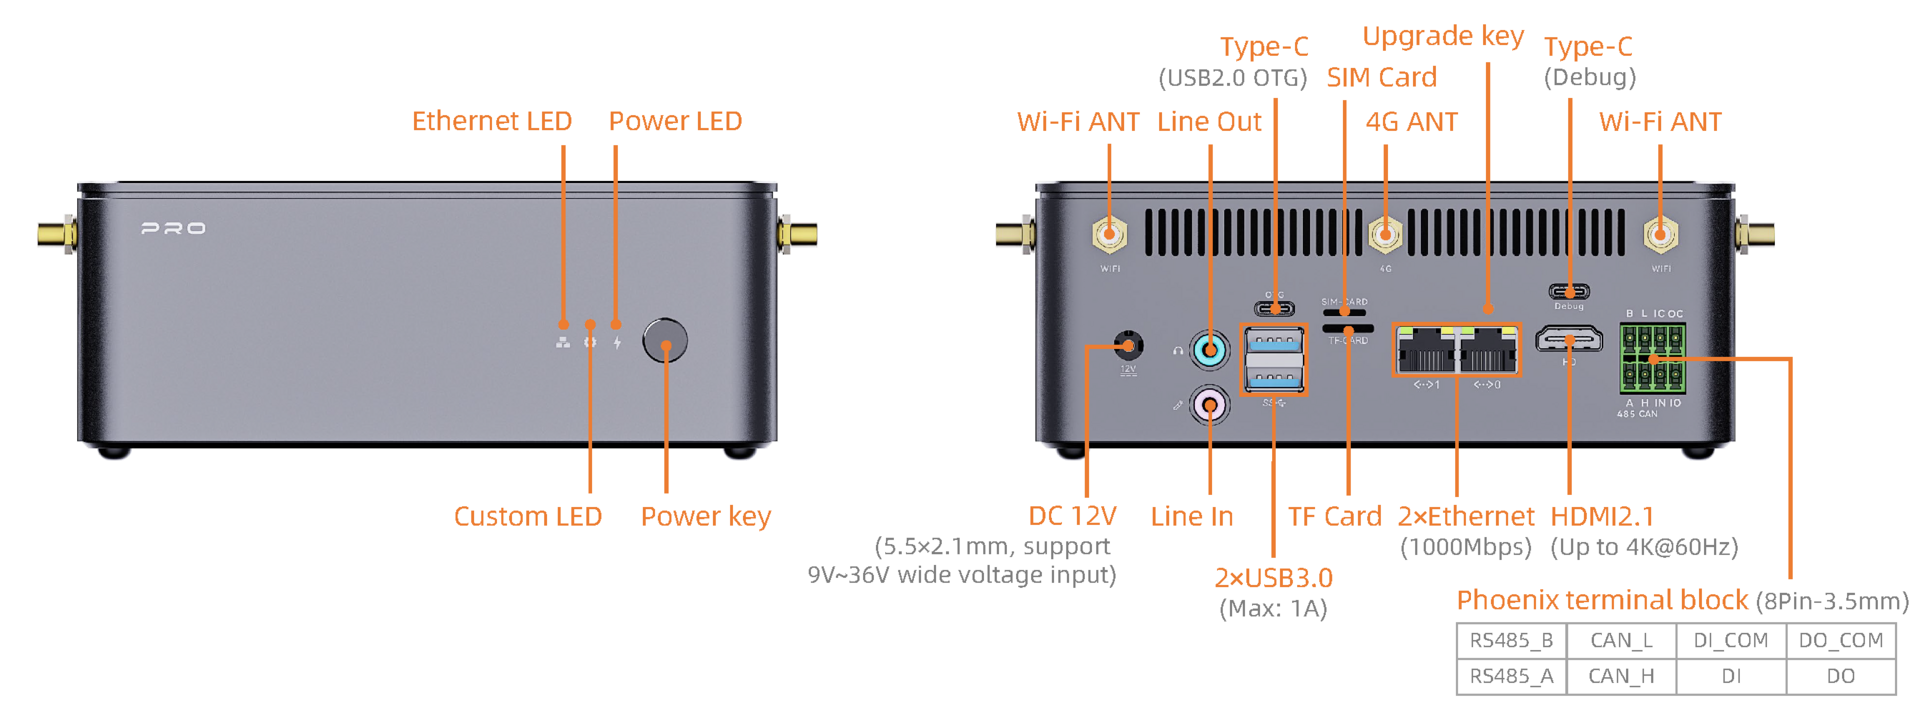
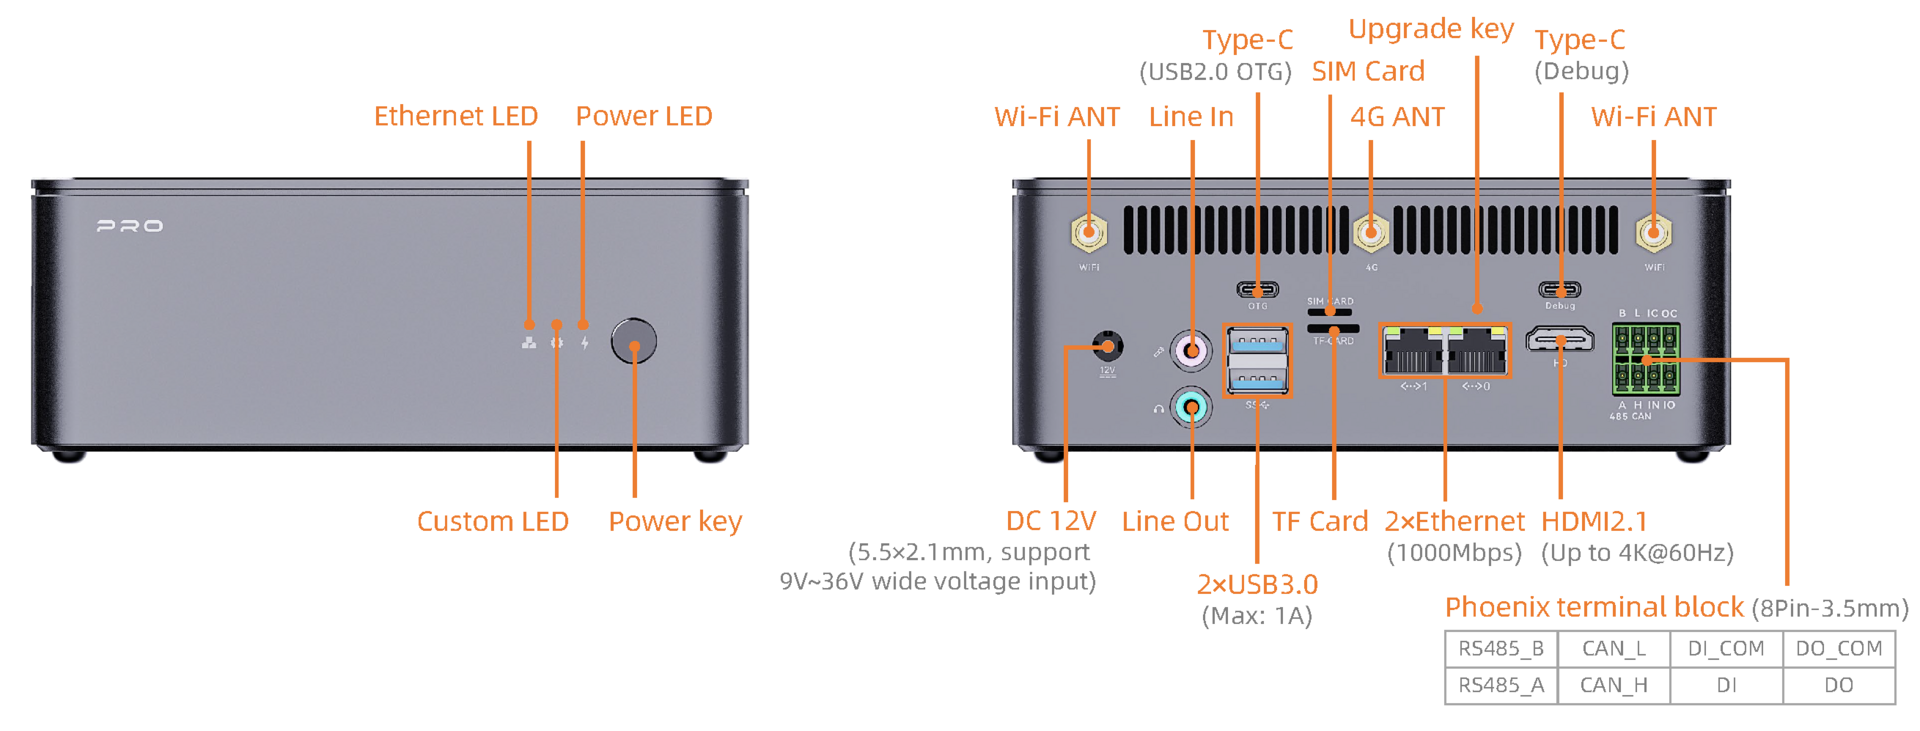
firefly products 68e78a1f7af6de2a8ff2ef659295a0e9297b4d36

diff --git a/en/Computers/AIBOX-PRO/linux6.1_compile_rockchip.md b/en/Computers/AIBOX-PRO/linux6.1_compile_rockchip.md
@@ -20,72 +20,13 @@ Depand on **Main Module**, Please contact sales@t-firefly.com to get **RK3588 Ke
 ## Compile Debian Firmware
 <font color=red> Download SDK First. </font>
 
-### rootfs
-* Download root filesystem: [Debian Rootfs(64-bit) Kernel6.1](https://en.t-firefly.com/doc/download/301.html), please use the filesystem from the `kernel-6.1` directory.
-* Extract rootfs and link it
-
-#### RK3588
-```
-# Extract
-7z x debian12_xxxx_rootfs_xxxx.7z
-
-# Move the extracted rootfs image to SDK and create a symbolic link
-mkdir ./SDK/prebuilt_rootfs/
-mv debian12_xxxx_rootfs_xxxx.img ./SDK/prebuilt_rootfs/
-cd ./SDK/prebuilt_rootfs/
-ln -sf debian12_xxxx_rtoofs_xxxx.img rk3588_debian_rootfs.img
-cd ..
-```
-
-### Configure
-#### Core-3588JD4
-
-```
-./build.sh firefly_rk3588_aibox-pro-g2-3588jd4_rk182x_debian_defconfig
-```
-
-### Build
-```
-./build.sh all
-```
-
-The generated firmware is in the `output/update/` directory, e.g., `AIBOX-PRO-G2-3588JD4_Debian.XXX.img`
+!INCLUDE "./linux6.1_compile_debian_aibox-pro-3588.mdpp"
 
 ## Compile Ubuntu Firmware
 <font color=red> Download SDK First. </font>
 
-### rootfs
-* Download root filesystem: [Ubuntu Rootfs(64-bit) Kernel6.1](https://en.t-firefly.com/doc/download/301.html), please use the filesystem from the `kernel-6.1` directory.
-* Extract rootfs and link it
-
-#### RK3588
-```
-# Extract
-7z x Ubuntu22.04-xxxx.7z
-
-mkdir ./SDK/prebuilt_rootfs/
-mv Ubuntu22.04-xxxx.img ./SDK/prebuilt_rootfs/
-cd ./SDK/prebuilt_rootfs/
-ln -sf Ubuntu22.04-xxxx.img rk3588_ubuntu_rootfs.img
-cd ..
-```
-
-### Configure
-### RK3588
-
-```
-./build.sh firefly_rk3588_aibox-pro-g2-3588jd4_rk182x_ubuntu_defconfig
-```
-
-### Build
-```
-./build.sh all
-```
-
-The generated firmware is in the `output/update/` directory, e.g., `AIBOX-PRO-G2-3588JD4_Ubuntu.XXX.img`
+!INCLUDE "./linux6.1_compile_ubuntu_aibox-pro-3588.mdpp"
 
 ## Export Main Module Rootfs
-Reference [Export device rootfs](/en/docs/tools/development-tool/Rootfs-Export-Tool/ff-export-rootfs)
-
-
+Reference [Export device rootfs](https://wiki.t-firefly.com/en/Firefly-Linux-Guide/first_use.html#export-device-system)
 

diff --git a/zh/主机/AIBOX-PRO/linux6.1_compile_rockchip.md b/zh/主机/AIBOX-PRO/linux6.1_compile_rockchip.md
@@ -20,73 +20,13 @@
 ## 编译 Debian 固件
 <font color=red> 先获取 SDK。 </font>
 
-### rootfs
-* 下载根文件系统：[Debian 根文件系统(64位) Kernel6.1](https://www.t-firefly.com/doc/download/290.html)，请使用网盘中 kernel-6.1 目录下的文件系统。
-* 解压 rootfs 并链接 rootfs
-
-#### RK3588 
-```
-# 解压
-7z x debian12_xxxx_rootfs_xxxx.7z
-
-# 将解压后的 rootfs 镜像移动到 sdk 并创建一个符号链接
-mkdir ./SDK/prebuilt_rootfs/
-mv debian12_xxxx_rootfs_xxxx.img ./SDK/prebuilt_rootfs/
-cd ./SDK/prebuilt_rootfs/
-ln -sf debian12_xxxx_rtoofs_xxxx.img rk3588_debian_rootfs.img
-cd ..
-```
-
-### 配置
-#### Core-3588JD4
-
-```
-./build.sh firefly_rk3588_aibox-pro-g2-3588jd4_rk182x_debian_defconfig
-```
-
-### 编译
-```
-./build.sh all
-```
-
-生成的固件在 `output/update/` 目录下，比如 `AIBOX-PRO-G2-3588JD4_Debian.XXX.img` 
+!INCLUDE "./linux6.1_compile_debian_aibox-pro-3588.mdpp"
 
 ## 编译 Ubuntu 固件
 <font color=red> 先获取 SDK。 </font>
 
-### rootfs
-* 下载根文件系统：[Ubuntu 根文件系统(64位) Kernel6.1](https://www.t-firefly.com/doc/download/290.html)，请使用网盘中 kernel-6.1 目录下的文件系统。
-* 解压 rootfs 并链接 rootfs
-
-#### RK3588 
-```
-# 解压
-7z x Ubuntu22.04-xxxx.7z
-
-mkdir ./SDK/prebuilt_rootfs/
-mv Ubuntu22.04-xxxx.img ./SDK/prebuilt_rootfs/
-cd ./SDK/prebuilt_rootfs/
-ln -sf Ubuntu22.04-xxxx.img rk3588_ubuntu_rootfs.img
-cd ..
-```
-
-### 配置
-### RK3588
-
-```
-./build.sh firefly_rk3588_aibox-pro-g2-3588jd4_rk182x_ubuntu_defconfig
-```
-
-### 编译
-```
-./build.sh all
-```
-
-生成的固件在 `output/update/` 目录下，比如 ``AIBOX-PRO-G2-3588JD4_Ubuntu.XXX.img`
+!INCLUDE "./linux6.1_compile_ubuntu_aibox-pro-3588.mdpp"
 
 ## 导出主核心模组的 rootfs
-参考 [导出设备系统](/docs/tools/development-tool/Rootfs-Export-Tool/ff-export-rootfs)
-
-
-
+参考 [导出设备系统](https://wiki.t-firefly.com/zh_CN/Firefly-Linux-Guide/first_use.html#dao-chu-she-bei-xi-tong)
 

diff --git a/en/Computers/AIBOX-PRO/ai.md b/en/Computers/AIBOX-PRO/ai.md
@@ -302,8 +302,7 @@ A1：Please refer to the accuracy troubleshooting section in the document《Rock
 
 A2：Try to update RKNN-Toolkit2/RKNPU2 to the latest version or modify the model and use ‘Repeat’ instead of ‘Expand’.
 
-**For more conversion issues or error causes, please refer to the Trouble Shooting section in the document《Rockchip_RKNPU_User_Guide_RKNN_SDK\*》**
-# RK1820/RK1828 
+**For more conversion issues or error causes, please refer to the Trouble Shooting section in the document《Rockchip_RKNPU_User_Guide_RKNN_SDK\*》**# RK1820/RK1828 
 
 * RK3588 Soc(Host) : As the core of the system, responsible for task scheduling, resource allocation, and overall control.
 * RK1820/RK1828 Coprocessor(Device) : As an AI computing acceleration unit, we focus on high-performance neural network inference tasks.

diff --git a/en/Computers/AIBOX-PRO/interface_definition.md b/en/Computers/AIBOX-PRO/interface_definition.md
@@ -16,13 +16,8 @@ AIBOX-PRO has rich interfaces, mainly including:
 - CAN
 - DI/DO Optocoupler Isolation
 - Power Indicator
-- Wi-Fi Module/Bluetooth Module (only one can be used at a time)
 - Wi-Fi Antenna x 2
 - 4G Antenna
 - 5G Antenna x 4
 
-Note:
-The following interfaces are unavailable on the RK3576 core board: Wi-Fi, Bluetooth (shared with Wi-Fi), SATA, and expansion PCIe.
-
 ![](../../../aibox_img/AIBOX-PRO/AIBOX-PRO-interface_en.png)
-![](../../../aibox_img/AIBOX-PRO/AIBOX-PRO-interface-side_en.png)

diff --git a/en/Computers/AIBOX-PRO/upgrade_firmware.md b/en/Computers/AIBOX-PRO/upgrade_firmware.md
@@ -223,4 +223,3 @@ sudo fastboot reboot # After the burn is successful, restart
 If Download Boot Fail occurs during the programming process, or an error occurs during the programming process, as shown in the figure below, it is usually caused by the poor connection of the USB cable, the inferior cable, or the insufficient drive capability of the USB port of the computer. Troubleshoot the computer USB port.
 
 ![](../../../aibox_img/AIBOX-PRO/upgrade_firmware_download_fail.png)
-

diff --git a/zh/主机/AIBOX-PRO/interface_definition.md b/zh/主机/AIBOX-PRO/interface_definition.md
@@ -16,13 +16,8 @@ AIBOX-PRO 接口丰富，主要包括：
 - CAN
 - DI/DO 光耦隔离
 - 电源指示灯
-- Wi-Fi模块/蓝牙模块(同时只能使用一种)
 - Wi-Fi天线 x 2
 - 4G天线
 - 5G天线 x 4
 
-注意：
-3576核心板，无法使用：Wi-Fi接口，蓝牙接口（与WiFi接口共用），SATA接口， 扩展PCIe接口
-
 ![](../../../aibox_img/AIBOX-PRO/AIBOX-PRO-interface.png)
-![](../../../aibox_img/AIBOX-PRO/AIBOX-PRO-interface-side.png)

diff --git a/en/Computers/AIBOX-PRO/index.md b/en/Computers/AIBOX-PRO/index.md
@@ -20,6 +20,6 @@
 - [ROCKCHIP ](ai.md)
 # Linux Development
 - [Compile Main Module Firmware](linux6.1_compile_rockchip.md)
-- [Compile RK1820/RK1828 Installer](linux6.1_compile_rk182x.md)
+- [Download SDK](linux6.1_compile_rk182x.md)
 # Accessories
 - [Communication Module](module_wireless.md)

diff --git a/zh/主机/AIBOX-PRO/index.md b/zh/主机/AIBOX-PRO/index.md
@@ -20,6 +20,6 @@
 - [ROCKCHIP 平台](ai.md)
 # Linux开发
 - [编译主核心模组固件](linux6.1_compile_rockchip.md)
-- [编译 RK1820/RK1828 安装包](linux6.1_compile_rk182x.md)
+- [获取 SDK](linux6.1_compile_rk182x.md)
 # 配件
 - [通信模组](module_wireless.md)

diff --git a/en/Computers/AIBOX-PRO/linux6.1_compile_rk182x.md b/en/Computers/AIBOX-PRO/linux6.1_compile_rk182x.md
@@ -1,4 +1,3 @@
-# Compile RK1820/RK1828 Installer
 ## Download SDK
 Please contact `sales@t-firefly.com` to get **RK182X SDK** download link.
 

diff --git a/zh/主机/AIBOX-PRO/linux6.1_compile_rk182x.md b/zh/主机/AIBOX-PRO/linux6.1_compile_rk182x.md
@@ -1,4 +1,3 @@
-# 编译 RK1820/RK1828 安装包
 ## 获取 SDK
 
 请联系销售 (sales@t-firefly.com) 获取 **RK182X SDK** 下载链接。
